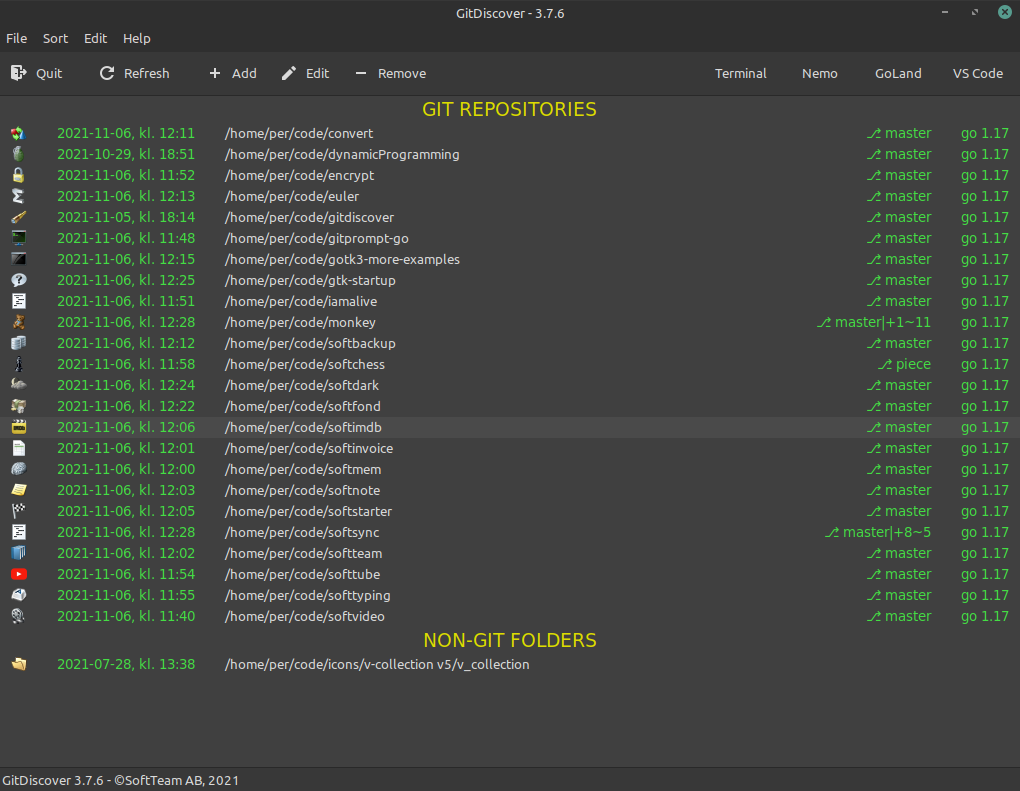
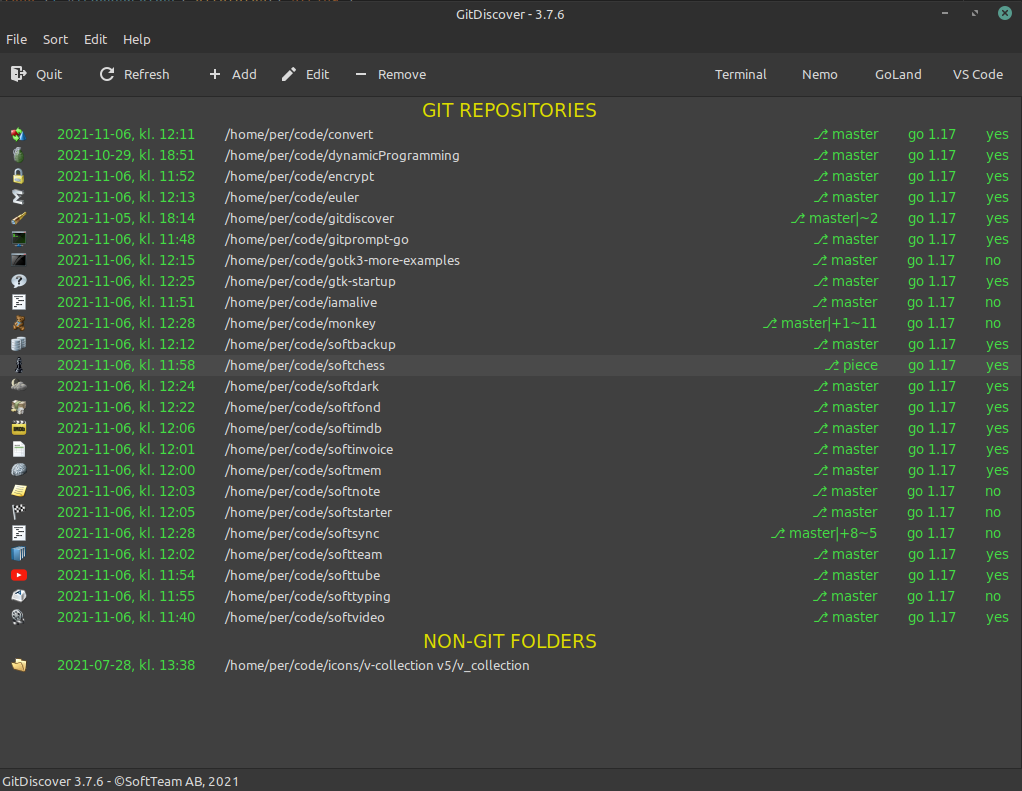
version 3.7.7 - added git remote column

diff --git a/internal/gui/mainWindow.go b/internal/gui/mainWindow.go
@@ -325,6 +325,7 @@ func (m *MainWindow) createListItem(index int, dateFormat string, repo *tracker.
 		panic(err)
 	}
 	image, err := gtk.ImageNewFromPixbuf(pix)
+	image.SetTooltipText("Application.png from assets folder in repository")
 	if err != nil {
 		m.logger.Panic(err)
 		panic(err)
@@ -339,9 +340,22 @@ func (m *MainWindow) createListItem(index int, dateFormat string, repo *tracker.
 	}
 	label.SetMarkup(`<span font="Sans Regular 10" foreground="#44DD44">` + repo.ModifiedDate().Format(dateFormat) + `</span>`)
 	label.SetName("lblDate")
+	label.SetTooltipText("Modifed date of repository folder")
 	sgDate.AddWidget(label)
 	label.SetXAlign(0.0)
 	box.PackStart(label, false, false, 10)
+
+	// HasRemote
+	label, err = gtk.LabelNew("")
+	if err != nil {
+		m.logger.Panic(err)
+		panic(err)
+	}
+	label.SetMarkup(`<span font="Sans Regular 10" foreground="#44DD44">` + repo.HasRemote() + `</span>`)
+	label.SetName("lblHasRemote")
+	label.SetTooltipText("Has a Git remote repository")
+	label.SetHAlign(gtk.ALIGN_START)
+	box.PackEnd(label, false, false, 10)
 
 	// GoStatus
 	label, err = gtk.LabelNew("")
@@ -350,7 +364,8 @@ func (m *MainWindow) createListItem(index int, dateFormat string, repo *tracker.
 		panic(err)
 	}
 	label.SetMarkup(`<span font="Sans Regular 10" foreground="#44DD44">` + repo.GoStatus() + `</span>`)
-	label.SetName("lblStatus")
+	label.SetName("lblGoStatus")
+	label.SetTooltipText("Go version from the go.mod file")
 	label.SetHAlign(gtk.ALIGN_START)
 	box.PackEnd(label, false, false, 10)
 
@@ -362,6 +377,7 @@ func (m *MainWindow) createListItem(index int, dateFormat string, repo *tracker.
 	}
 	label.SetMarkup(`<span font="Sans Regular 10" foreground="#44DD44">` + repo.GitStatus() + `</span>`)
 	label.SetName("lblStatus")
+	label.SetTooltipText("Result from the Git status command")
 	label.SetHAlign(gtk.ALIGN_START)
 	box.PackEnd(label, false, false, 10)
 
@@ -372,6 +388,7 @@ func (m *MainWindow) createListItem(index int, dateFormat string, repo *tracker.
 		panic(err)
 	}
 	label.SetName("lblPath")
+	label.SetTooltipText("Repository path")
 	label.SetHAlign(gtk.ALIGN_START)
 	box.PackEnd(label, true, true, 10)
 

diff --git a/internal/tracker/trackedFolder.go b/internal/tracker/trackedFolder.go
@@ -1,9 +1,11 @@
 package tracker
 
 import (
+	"io/ioutil"
 	"os"
 	"os/exec"
 	"path"
+	"regexp"
 	"strconv"
 	"strings"
 	"time"
@@ -21,6 +23,7 @@ type TrackedFolder struct {
 	gitStatus    string
 	goStatus     string
 	changes      int
+	hasRemote    bool
 }
 
 func NewFolder(folder string) *TrackedFolder {
@@ -37,6 +40,7 @@ func (f *TrackedFolder) Refresh() {
 	f.isGit = f.isGitFolder(path.Join(f.path, ".git"))
 	f.modifiedDate = f.getModifiedDate(f.path)
 	if f.isGit {
+		f.hasRemote = f.getHasRemote(f.path)
 		f.gitStatus = f.getGitStatus(f.path)
 		f.goStatus = f.getGoStatus(f.path)
 		f.changes = f.getNoOfChanges(f.gitStatus)
@@ -71,6 +75,18 @@ func (f *TrackedFolder) GitStatus() string {
 func (f *TrackedFolder) GoStatus() string {
 	return f.goStatus
 }
+
+func (f *TrackedFolder) HasRemote() string {
+	if !f.IsGit() {
+		return ""
+	}
+	if f.hasRemote {
+		return "yes"
+	}
+
+	return "no  "
+}
+
 func (f *TrackedFolder) IsGit() bool {
 	return f.isGit
 }
@@ -136,4 +152,19 @@ func (f *TrackedFolder) getNoOfChanges(status string) int {
 		changes += c
 	}
 	return changes
+}
+
+func (f *TrackedFolder) getHasRemote(repoPath string) bool {
+	configPath := path.Join(repoPath, ".git", "config")
+	buf, err := ioutil.ReadFile(configPath)
+	if err != nil {
+		return false
+	}
+	expr := `\[remote`
+	r := regexp.MustCompile(expr)
+	result := r.FindString(string(buf))
+	if result == "" {
+		return false
+	}
+	return true
 }

diff --git a/internal/gui/constants.go b/internal/gui/constants.go
@@ -1,7 +1,7 @@
 package gui
 
 const (
-	applicationVersion   = "3.7.6"
+	applicationVersion   = "3.7.7"
 	applicationTitle     = "GitDiscover"
 	applicationCopyRight = "©SoftTeam AB, 2021"
 )
